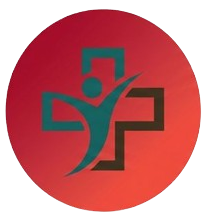
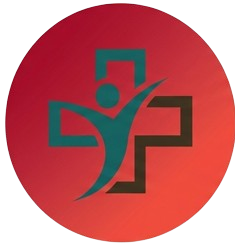
updated website

diff --git a/objectives.html b/objectives.html
@@ -12,9 +12,9 @@
     <meta name="keywords" content="" />
     <meta name="author" content="Awaiken" />
     <!-- Page Title -->
-    <title>Healix - Health Coach HTML Template</title>
+    <title>HomeSteadHealthCare</title>
     <!-- Favicon Icon -->
-    <link rel="shortcut icon" type="image/x-icon" href="images/favicon.png" />
+    <link rel="shortcut icon" type="image/x-icon" href="images/loader.png" />
     <!-- Google Fonts Css-->
     <link rel="preconnect" href="https://fonts.googleapis.com/" />
     <link rel="preconnect" href="https://fonts.gstatic.com/" crossorigin />
@@ -44,20 +44,23 @@
     <div class="preloader">
       <div class="loading-container">
         <div class="loading"></div>
-        <div id="loading-icon"><img src="images/loader.svg" alt="" /></div>
+        <div id="loading-icon"><img src="images/loader.png" alt="" /></div>
       </div>
     </div>
     <!-- Preloader End -->
 
     <!-- Header Start -->
-    <header class="main-header bg-section">
+    <header
+      class="main-header bg-section"
+      style="background: linear-gradient(135deg, #0f3460, #16213e, #1f4068)"
+    >
       <div class="header-sticky">
         <nav class="navbar navbar-expand-lg">
           <div class="container">
             <!-- Logo Start -->
             <a class="navbar-brand" href="index.html">
               <img
-                src="images/IMG_0466-removebg-preview.png"
+                src="images/IMG_0488-removebg-preview.png"
                 alt="Logo"
                 style="width: 300px"
               />
@@ -116,7 +119,9 @@
           <div class="col-lg-12">
             <!-- Page Header Box Start -->
             <div class="page-header-box">
-              <h1 class="text-anime-style-3" data-cursor="-opaque">About us</h1>
+              <h1 class="text-anime-style-3" data-cursor="-opaque">
+                Our Objectives
+              </h1>
             </div>
             <!-- Page Header Box End -->
           </div>
@@ -214,7 +219,10 @@
     </div>
 
     <!-- Main Footer Section Start -->
-    <footer class="main-footer bg-section dark-section">
+    <footer
+      class="main-footer bg-section dark-section"
+      style="background: linear-gradient(135deg, #0f3460, #16213e, #1f4068)"
+    >
       <div class="container">
         <div class="row">
           <div class="col-lg-12">
@@ -226,7 +234,7 @@
                 <!-- Footer Logo Start -->
                 <div class="footer-logo">
                   <img
-                    src="images/IMG_0466-removebg-preview.png"
+                    src="images/IMG_0488-removebg-preview.png"
                     alt="Logo"
                     style="width: 250px"
                   />
@@ -272,10 +280,10 @@
                       <a href="our-mission.html">Mission</a>
                     </li>
                     <li>
-                      <a href="#">Corporate values</a>
+                      <a href="corporate-values.html">Corporate values</a>
                     </li>
                     <li>
-                      <a href="contact.html">Objectives</a>
+                      <a href="objectives.html">Objectives</a>
                     </li>
                     <!-- <li class="nav-item highlighted-menu">
                     <a class="nav-link" href="book-appointment.html"
@@ -307,7 +315,7 @@
                 <p>
                   Developed By
                   <a href="" style="color: white; text-decoration: underline"
-                    >PizTech</a
+                    >Webright Technology</a
                   >
                 </p>
               </div>

diff --git a/corporate-values.html b/corporate-values.html
@@ -12,9 +12,9 @@
     <meta name="keywords" content="" />
     <meta name="author" content="Awaiken" />
     <!-- Page Title -->
-    <title>Healix - Health Coach HTML Template</title>
+    <title>HomeSteadHealthCare</title>
     <!-- Favicon Icon -->
-    <link rel="shortcut icon" type="image/x-icon" href="images/favicon.png" />
+    <link rel="shortcut icon" type="image/x-icon" href="images/loader.png" />
     <!-- Google Fonts Css-->
     <link rel="preconnect" href="https://fonts.googleapis.com/" />
     <link rel="preconnect" href="https://fonts.gstatic.com/" crossorigin />
@@ -44,20 +44,23 @@
     <div class="preloader">
       <div class="loading-container">
         <div class="loading"></div>
-        <div id="loading-icon"><img src="images/loader.svg" alt="" /></div>
+        <div id="loading-icon"><img src="images/loader.png" alt="" /></div>
       </div>
     </div>
     <!-- Preloader End -->
 
     <!-- Header Start -->
-    <header class="main-header bg-section">
+    <header
+      class="main-header bg-section"
+      style="background: linear-gradient(135deg, #0f3460, #16213e, #1f4068)"
+    >
       <div class="header-sticky">
         <nav class="navbar navbar-expand-lg">
           <div class="container">
             <!-- Logo Start -->
             <a class="navbar-brand" href="index.html">
               <img
-                src="images/IMG_0466-removebg-preview.png"
+                src="images/IMG_0488-removebg-preview.png"
                 alt="Logo"
                 style="width: 300px"
               />
@@ -290,7 +293,10 @@
     <!-- Our Testimonial Section End-->
 
     <!-- Main Footer Section Start -->
-    <footer class="main-footer bg-section dark-section">
+    <footer
+      class="main-footer bg-section dark-section"
+      style="background: linear-gradient(135deg, #0f3460, #16213e, #1f4068)"
+    >
       <div class="container">
         <div class="row">
           <div class="col-lg-12">
@@ -302,7 +308,7 @@
                 <!-- Footer Logo Start -->
                 <div class="footer-logo">
                   <img
-                    src="images/IMG_0466-removebg-preview.png"
+                    src="images/IMG_0488-removebg-preview.png"
                     alt="Logo"
                     style="width: 250px"
                   />
@@ -348,10 +354,10 @@
                       <a href="our-mission.html">Mission</a>
                     </li>
                     <li>
-                      <a href="#">Corporate values</a>
+                      <a href="corporate-values.html">Corporate values</a>
                     </li>
                     <li>
-                      <a href="contact.html">Objectives</a>
+                      <a href="objectives.html">Objectives</a>
                     </li>
                     <!-- <li class="nav-item highlighted-menu">
                     <a class="nav-link" href="book-appointment.html"
@@ -383,7 +389,7 @@
                 <p>
                   Developed By
                   <a href="" style="color: white; text-decoration: underline"
-                    >PizTech</a
+                    >Webright Technology</a
                   >
                 </p>
               </div>

diff --git a/about.html b/about.html
@@ -12,9 +12,9 @@
     <meta name="keywords" content="" />
     <meta name="author" content="Awaiken" />
     <!-- Page Title -->
-    <title>Healix - Health Coach HTML Template</title>
+    <title>HomeSteadHealthCare</title>
     <!-- Favicon Icon -->
-    <link rel="shortcut icon" type="image/x-icon" href="images/favicon.png" />
+    <link rel="shortcut icon" type="image/x-icon" href="images/loader.png" />
     <!-- Google Fonts Css-->
     <link rel="preconnect" href="https://fonts.googleapis.com/" />
     <link rel="preconnect" href="https://fonts.gstatic.com/" crossorigin />
@@ -44,20 +44,23 @@
     <div class="preloader">
       <div class="loading-container">
         <div class="loading"></div>
-        <div id="loading-icon"><img src="images/loader.svg" alt="" /></div>
+        <div id="loading-icon"><img src="images/loader.png" alt="" /></div>
       </div>
     </div>
     <!-- Preloader End -->
 
     <!-- Header Start -->
-    <header class="main-header bg-section">
+    <header
+      class="main-header bg-section"
+      style="background: linear-gradient(135deg, #0f3460, #16213e, #1f4068)"
+    >
       <div class="header-sticky">
         <nav class="navbar navbar-expand-lg">
           <div class="container">
             <!-- Logo Start -->
             <a class="navbar-brand" href="index.html">
               <img
-                src="images/IMG_0466-removebg-preview.png"
+                src="images/IMG_0488-removebg-preview.png"
                 alt="Logo"
                 style="width: 300px"
               />
@@ -78,7 +81,7 @@
                     <a class="nav-link" href="our-vision.html">Vision</a>
                   </li>
                   <li class="nav-item">
-                    <a class="nav-link" href="ourmission">Mission</a>
+                    <a class="nav-link" href="our-mission.html">Mission</a>
                   </li>
                   <li class="nav-item">
                     <a class="nav-link" href="corporate-values.html"
@@ -302,7 +305,7 @@
                 <p>
                   Developed By
                   <a href="" style="color: white; text-decoration: underline"
-                    >PizTech</a
+                    >Webright Technology</a
                   >
                 </p>
               </div>

diff --git a/our-mission.html b/our-mission.html
@@ -12,9 +12,9 @@
     <meta name="keywords" content="" />
     <meta name="author" content="Awaiken" />
     <!-- Page Title -->
-    <title>Healix - Health Coach HTML Template</title>
+    <title>HomeSteadHealthCare</title>
     <!-- Favicon Icon -->
-    <link rel="shortcut icon" type="image/x-icon" href="images/favicon.png" />
+    <link rel="shortcut icon" type="image/x-icon" href="images/loader.png" />
     <!-- Google Fonts Css-->
     <link rel="preconnect" href="https://fonts.googleapis.com/" />
     <link rel="preconnect" href="https://fonts.gstatic.com/" crossorigin />
@@ -44,20 +44,23 @@
     <div class="preloader">
       <div class="loading-container">
         <div class="loading"></div>
-        <div id="loading-icon"><img src="images/loader.svg" alt="" /></div>
+        <div id="loading-icon"><img src="images/loader.png" alt="" /></div>
       </div>
     </div>
     <!-- Preloader End -->
 
     <!-- Header Start -->
-    <header class="main-header bg-section">
+    <header
+      class="main-header bg-section"
+      style="background: linear-gradient(135deg, #0f3460, #16213e, #1f4068)"
+    >
       <div class="header-sticky">
         <nav class="navbar navbar-expand-lg">
           <div class="container">
             <!-- Logo Start -->
             <a class="navbar-brand" href="index.html">
               <img
-                src="images/IMG_0466-removebg-preview.png"
+                src="images/IMG_0488-removebg-preview.png"
                 alt="Logo"
                 style="width: 300px"
               />
@@ -277,7 +280,7 @@
                 <p>
                   Developed By
                   <a href="" style="color: white; text-decoration: underline"
-                    >PizTech</a
+                    >Webright Technology</a
                   >
                 </p>
               </div>

diff --git a/our-vision.html b/our-vision.html
@@ -12,9 +12,9 @@
     <meta name="keywords" content="" />
     <meta name="author" content="Awaiken" />
     <!-- Page Title -->
-    <title>Healix - Health Coach HTML Template</title>
+    <title>HomeSteadHealthCare</title>
     <!-- Favicon Icon -->
-    <link rel="shortcut icon" type="image/x-icon" href="images/favicon.png" />
+    <link rel="shortcut icon" type="image/x-icon" href="images/loader.png" />
     <!-- Google Fonts Css-->
     <link rel="preconnect" href="https://fonts.googleapis.com/" />
     <link rel="preconnect" href="https://fonts.gstatic.com/" crossorigin />
@@ -44,20 +44,23 @@
     <div class="preloader">
       <div class="loading-container">
         <div class="loading"></div>
-        <div id="loading-icon"><img src="images/loader.svg" alt="" /></div>
+        <div id="loading-icon"><img src="images/loader.png" alt="" /></div>
       </div>
     </div>
     <!-- Preloader End -->
 
     <!-- Header Start -->
-    <header class="main-header bg-section">
+    <header
+      class="main-header bg-section"
+      style="background: linear-gradient(135deg, #0f3460, #16213e, #1f4068)"
+    >
       <div class="header-sticky">
         <nav class="navbar navbar-expand-lg">
           <div class="container">
             <!-- Logo Start -->
             <a class="navbar-brand" href="index.html">
               <img
-                src="images/IMG_0466-removebg-preview.png"
+                src="images/IMG_0488-removebg-preview.png"
                 alt="Logo"
                 style="width: 300px"
               />
@@ -307,7 +310,7 @@
                 <p>
                   Developed By
                   <a href="" style="color: white; text-decoration: underline"
-                    >PizTech</a
+                    >Webright Technology</a
                   >
                 </p>
               </div>

diff --git a/index.html b/index.html
@@ -14,7 +14,7 @@
     <!-- Page Title -->
     <title>HomeSteadHealthCare</title>
     <!-- Favicon Icon -->
-    <link rel="shortcut icon" type="image/x-icon" href="images/favicon.png" />
+    <link rel="shortcut icon" type="image/x-icon" href="images/loader.png" />
     <!-- Google Fonts Css-->
     <link rel="preconnect" href="https://fonts.googleapis.com/" />
     <link rel="preconnect" href="https://fonts.gstatic.com/" crossorigin />
@@ -825,7 +825,7 @@
                 <p>
                   Developed By
                   <a href="" style="color: white; text-decoration: underline"
-                    >PizTech</a
+                    >Webright Technology</a
                   >
                 </p>
               </div>

diff --git a/services.html b/services.html
@@ -12,9 +12,9 @@
     <meta name="keywords" content="" />
     <meta name="author" content="Awaiken" />
     <!-- Page Title -->
-    <title>Healix - Health Coach HTML Template</title>
+    <title>HomeSteadHealthCare</title>
     <!-- Favicon Icon -->
-    <link rel="shortcut icon" type="image/x-icon" href="images/favicon.png" />
+    <link rel="shortcut icon" type="image/x-icon" href="images/loader.png" />
     <!-- Google Fonts Css-->
     <link rel="preconnect" href="https://fonts.googleapis.com/" />
     <link rel="preconnect" href="https://fonts.gstatic.com/" crossorigin />
